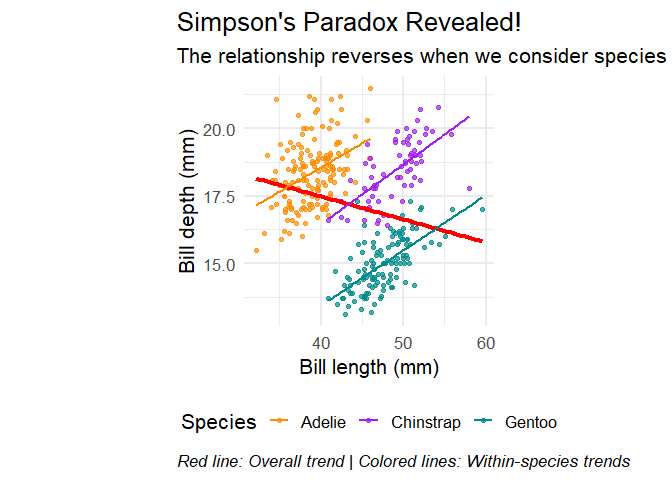
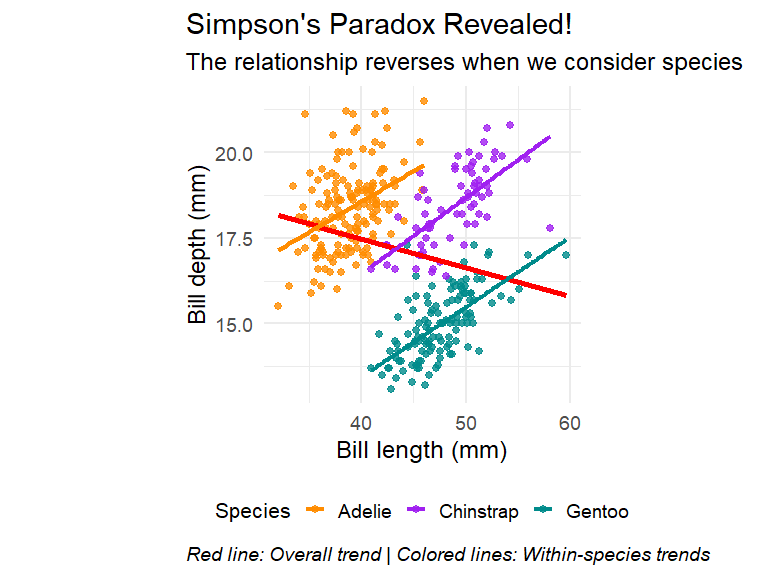
Complete Simpson's Paradox side-by-side comparison

diff --git a/README.md b/README.md
@@ -49,8 +49,8 @@ step.
 plot1 <- ggplot(data = penguins,
         aes(x = bill_length_mm,
         y = bill_depth_mm)) +
-  theme_minimal(16) +
-  geom_point(alpha = 0.6, color = "steelblue") +
+  theme_minimal(18) +
+  geom_point(alpha = 0.7, color = "steelblue", size = 2.5) +
   labs(title = "Overall Relationship: Bill Length vs. Bill Depth",
        subtitle = "Ignoring species differences",
        x = "Bill length (mm)",
@@ -59,7 +59,7 @@ plot1 <- ggplot(data = penguins,
         plot.caption = element_text(hjust = 0, face= "italic"),
         plot.caption.position = "plot",
         aspect.ratio = 1) +
-  geom_smooth(method = "lm", se = FALSE, color = "red", linewidth = 1.5)
+  geom_smooth(method = "lm", se = FALSE, color = "red", linewidth = 2)
 
 plot1
 ```
@@ -80,8 +80,8 @@ plot2 <- ggplot(data = penguins,
        aes(x = bill_length_mm,
            y = bill_depth_mm,
            color = species)) +
-  theme_minimal(16) +
-  geom_point(alpha = 0.7) +
+  theme_minimal(18) +
+  geom_point(alpha = 0.8, size = 2.5) +
   scale_color_manual(values = c("darkorange","purple","cyan4"),
                      name = "Species") +
   labs(title = "Simpson's Paradox Revealed!",
@@ -93,12 +93,14 @@ plot2 <- ggplot(data = penguins,
         plot.caption = element_text(hjust = 0, face = "italic"),
         plot.caption.position = "plot",
         legend.position = "bottom",
-        aspect.ratio = 1) +
+        aspect.ratio = 1,
+        legend.text = element_text(size = 14),
+        legend.title = element_text(size = 16)) +
   # Overall trend (ignoring species)
   geom_smooth(method = "lm", se = FALSE, color = "red", 
-              linewidth = 1.5, alpha = 0.8) +
+              linewidth = 2, alpha = 0.8) +
   # Species-specific trends
-  geom_smooth(method = "lm", se = FALSE, linewidth = 1)
+  geom_smooth(method = "lm", se = FALSE, linewidth = 1.5)
 
 plot2
 ```
@@ -126,12 +128,12 @@ comparison_plot <- plot1 + plot2 +
     title = "Simpson's Paradox: When Aggregation Lies",
     subtitle = "The same penguin data tells two completely different stories depending on whether we consider species grouping",
     caption = "Left: Overall relationship shows positive correlation | Right: Species-specific relationships show negative correlation\nThis reversal of trends when data is grouped is the essence of Simpson's Paradox",
-    theme = theme_minimal(16) +
+    theme = theme_minimal(18) +
       theme(
-        plot.title = element_text(size = 20, face = "bold", hjust = 0.5),
-        plot.subtitle = element_text(size = 14, hjust = 0.5, margin = margin(b = 20)),
-        plot.caption = element_text(size = 12, hjust = 0, face = "italic", 
-                                   margin = margin(t = 20), lineheight = 1.3)
+        plot.title = element_text(size = 24, face = "bold", hjust = 0.5, margin = margin(b = 10)),
+        plot.subtitle = element_text(size = 16, hjust = 0.5, margin = margin(b = 25), lineheight = 1.2),
+        plot.caption = element_text(size = 14, hjust = 0, face = "italic", 
+                                   margin = margin(t = 25), lineheight = 1.4)
       )
   )
 
